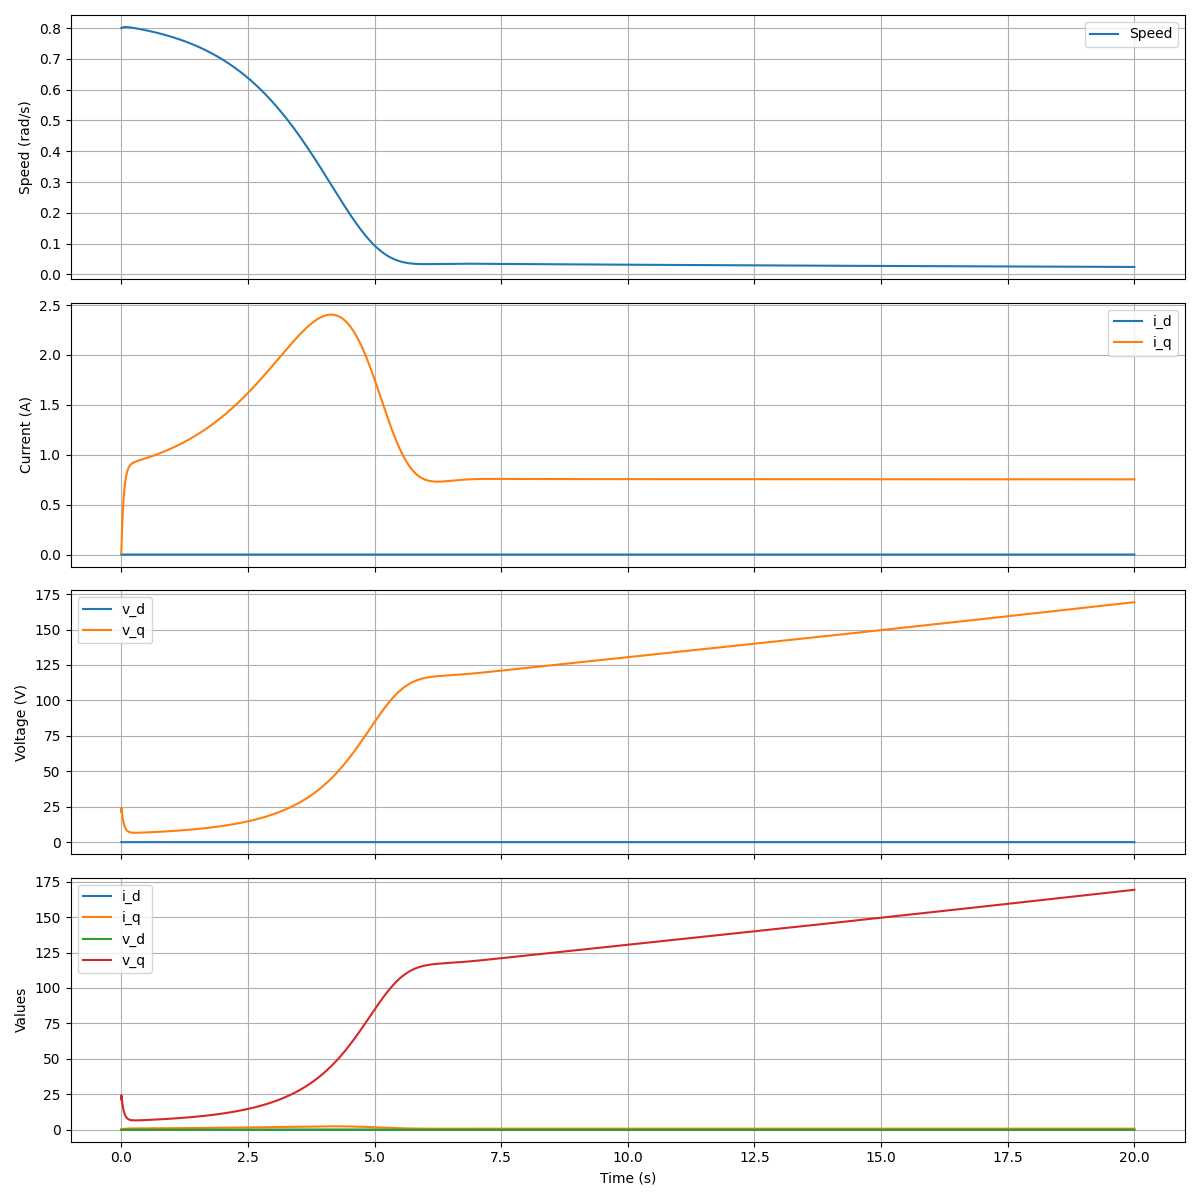
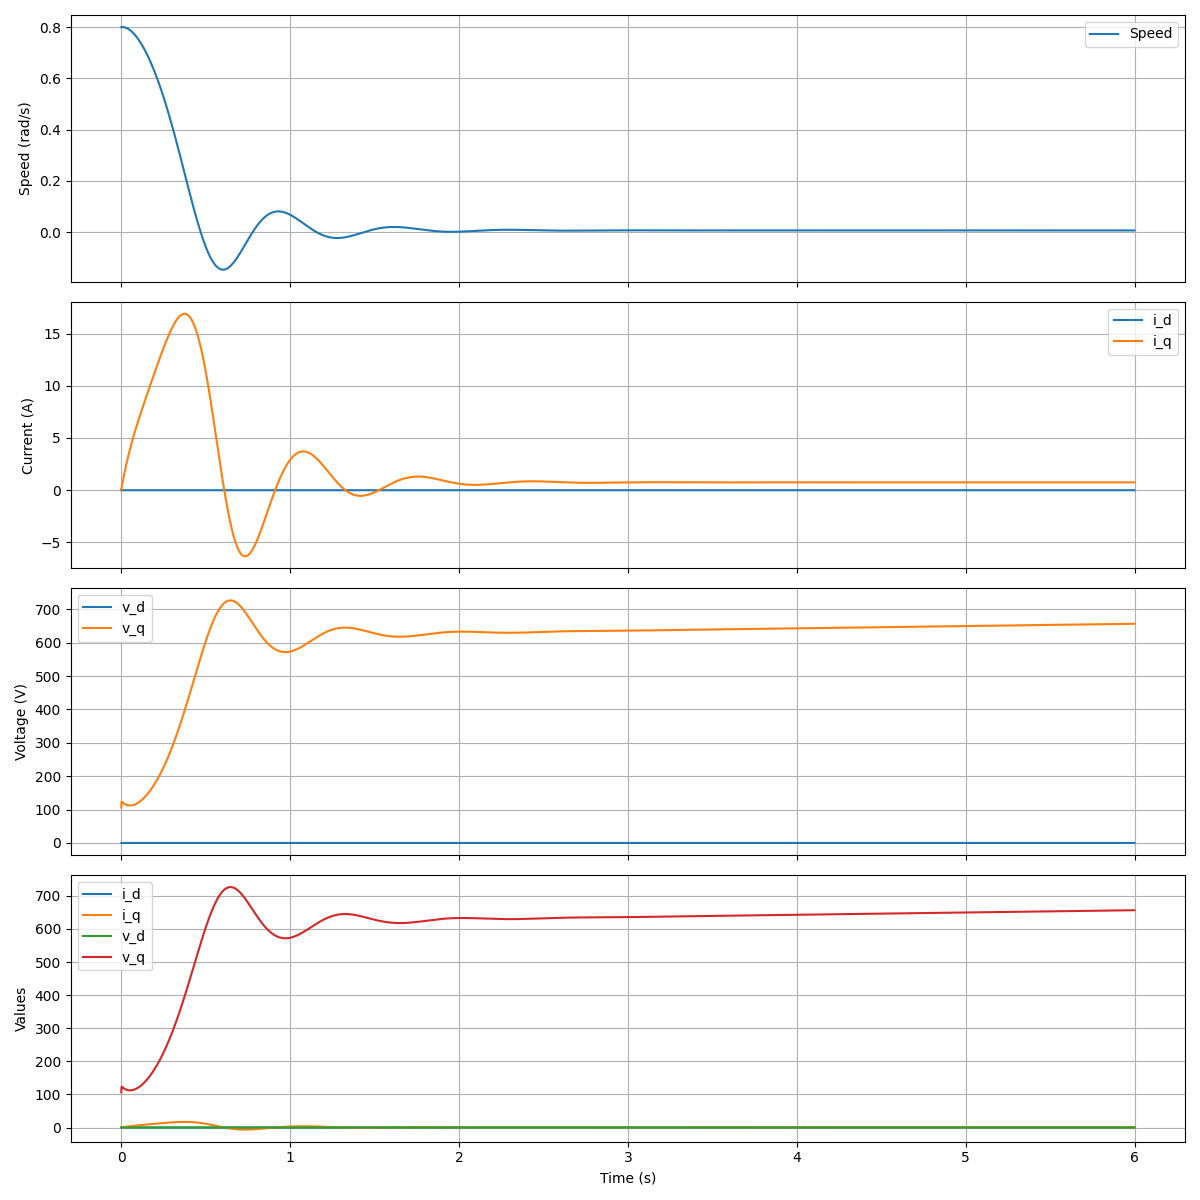
Litt tulling med kontrol-parametre for å tvinge frem en respons som ligner på "noe" ^^

diff --git a/src/tops/dyn_models/IPMSM_drives.py b/src/tops/dyn_models/IPMSM_drives.py
@@ -112,8 +112,8 @@ class IPMSM(Converter, PrimeMover, MSIC):
 
         # Initialize PI controllers for i_d and i_q
         self.pi_controller_id = PIController_LAH(kp=1.0, ki=0.1)
-        self.pi_controller_iq = PIController_LAH(kp=20.0, ki=0.2)
-        self.pi_controller_speed = PIController_LAH(kp=5.0, ki=0.1)
+        self.pi_controller_iq = PIController_LAH(kp=5.0, ki=0.05)
+        self.pi_controller_speed = PIController_LAH(kp=100.0, ki=0.1)
 
         # Desired currents and speed
         self.i_d_ref = 0.0          # Må kanskje endres senere
@@ -187,8 +187,6 @@ class IPMSM(Converter, PrimeMover, MSIC):
 
         # Update reference voltages using PI controllers
         self.update_reference_voltages(dt)
-
-
 
         # Create a dictionary to hold the derivatives
         dx = {"speed": 0.0, "i_d": 0.0, "i_q": 0.0}

diff --git a/src/tops/dyn_models/testing_WT_machine_side.py b/src/tops/dyn_models/testing_WT_machine_side.py
@@ -28,7 +28,7 @@ ipmsm.set_prime_mover_reference(torque_ref=0.2, speed_ref=1.0)
 
 # Simulation parameters
 dt = 1e-3  # Time step
-simulation_time = 20  # Total simulation time
+simulation_time = 6  # Total simulation time
 
 # Lists to store the results
 time_values = []
